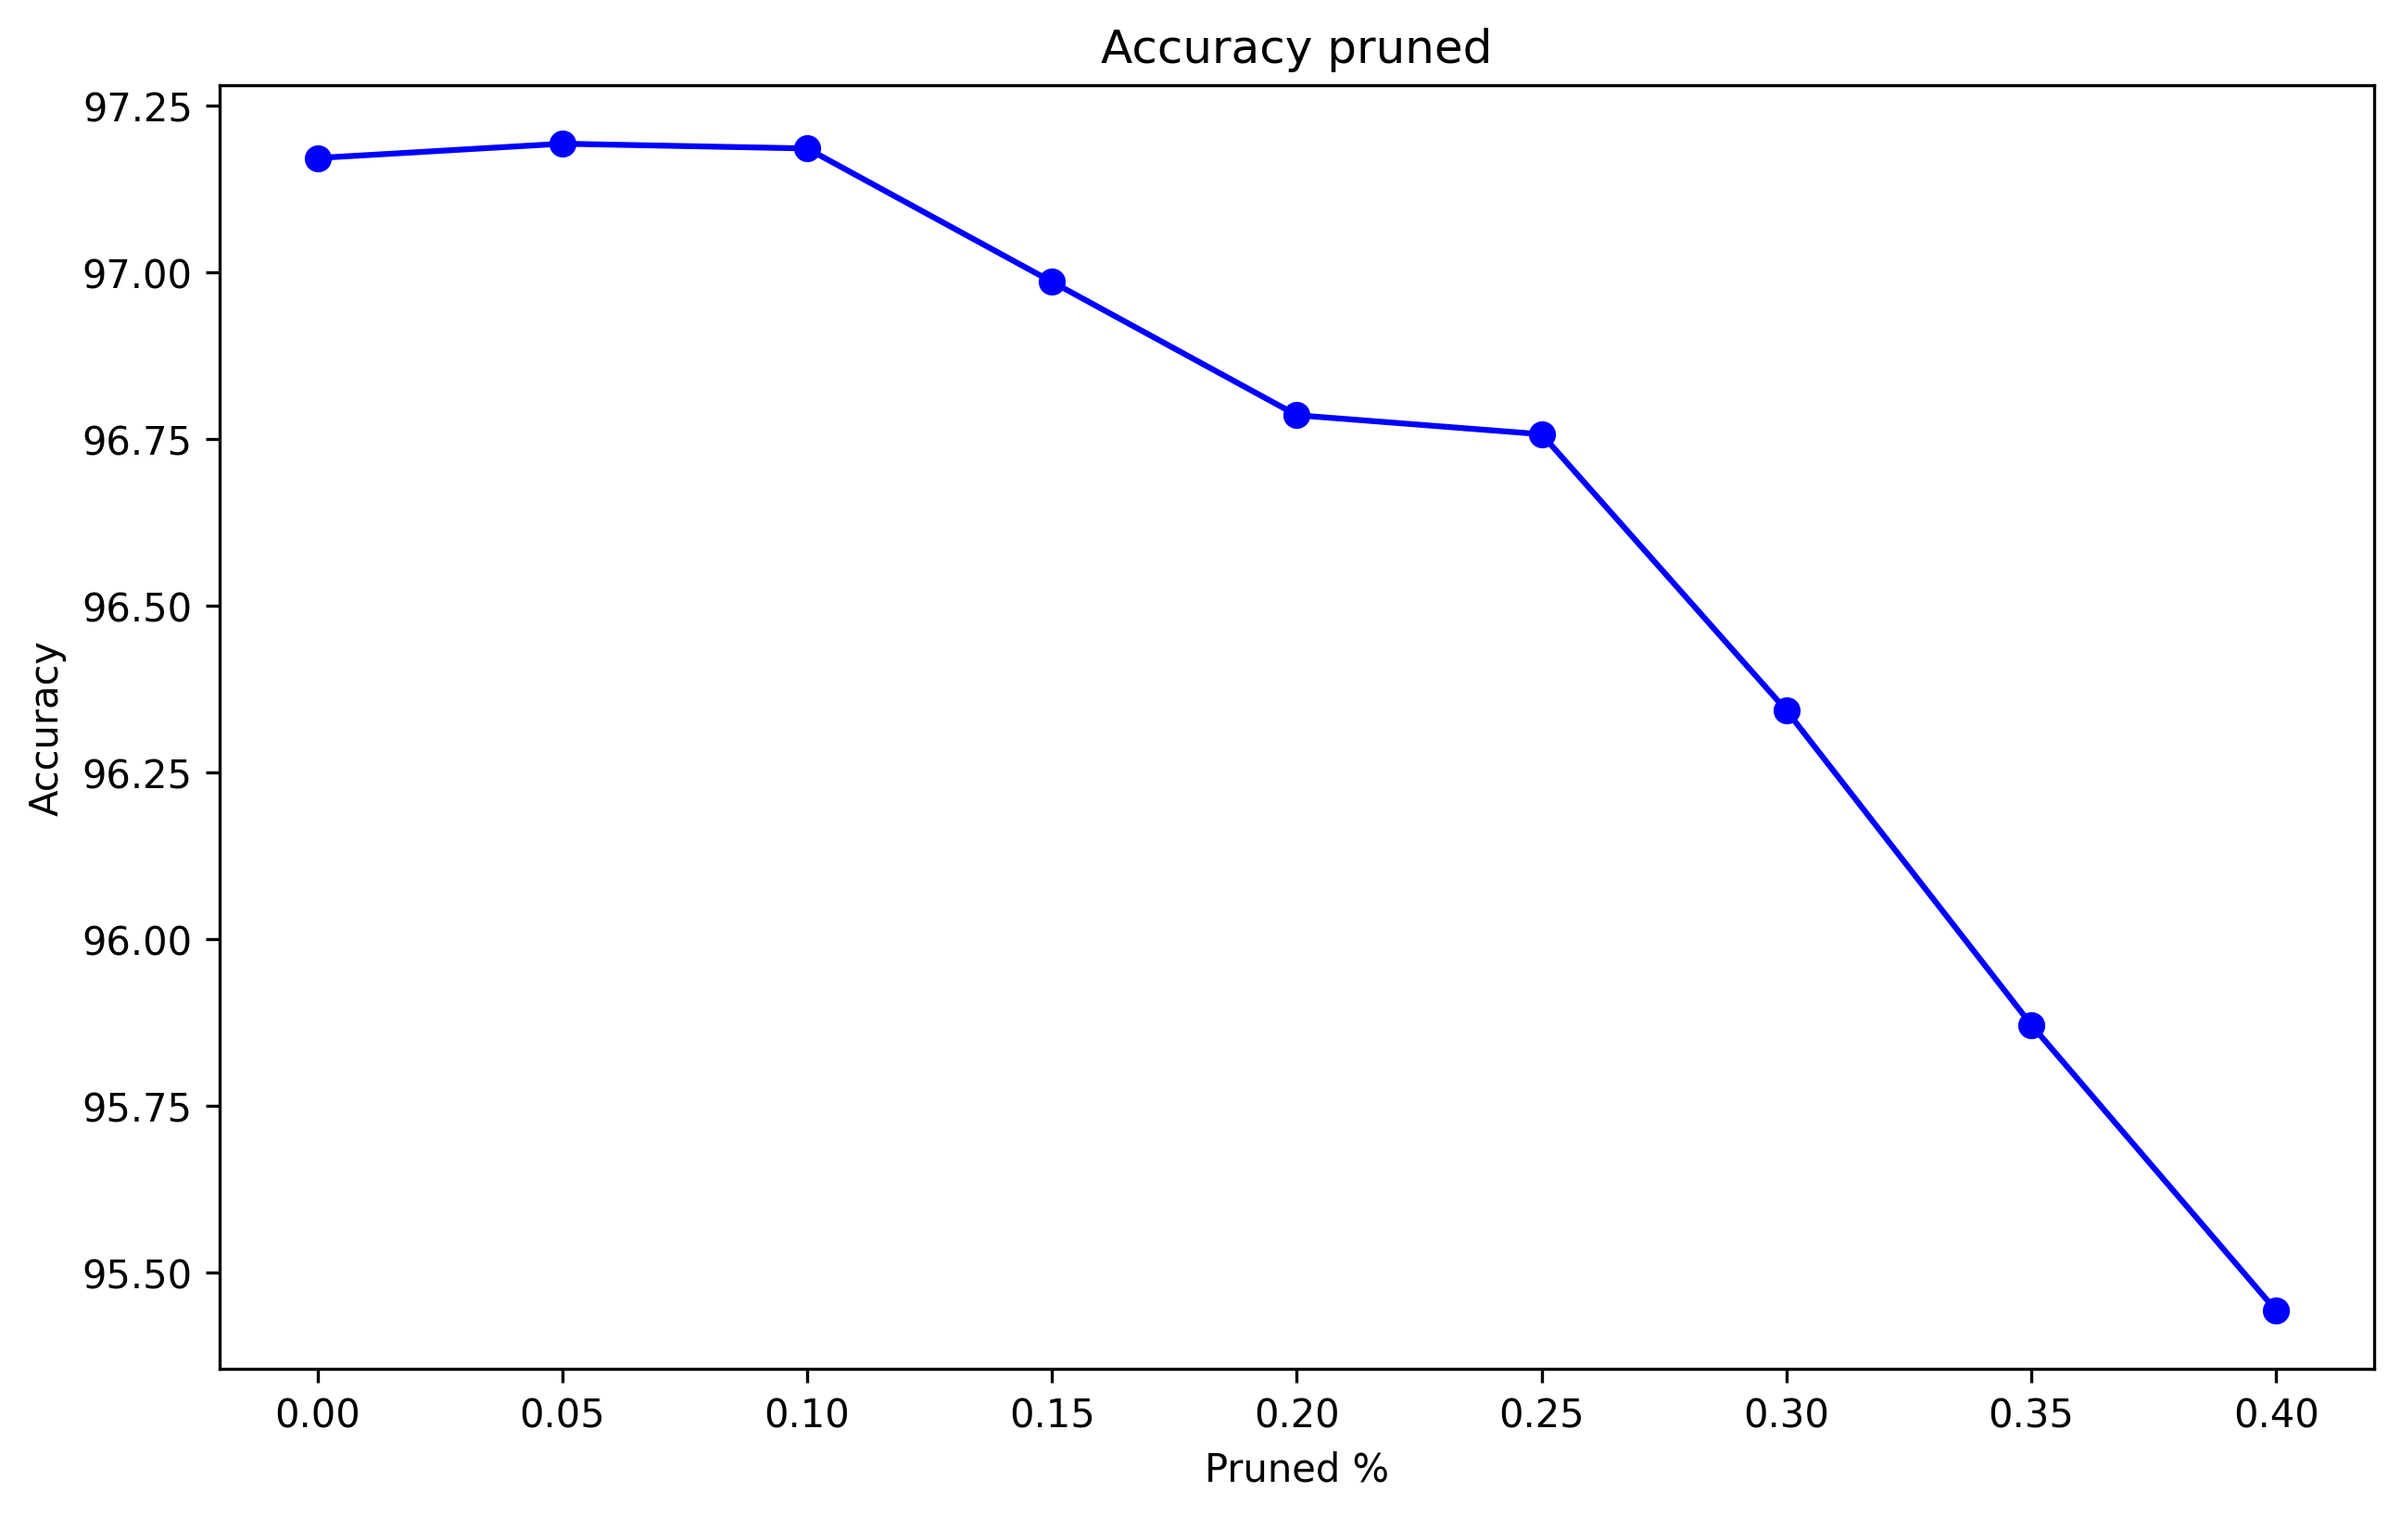
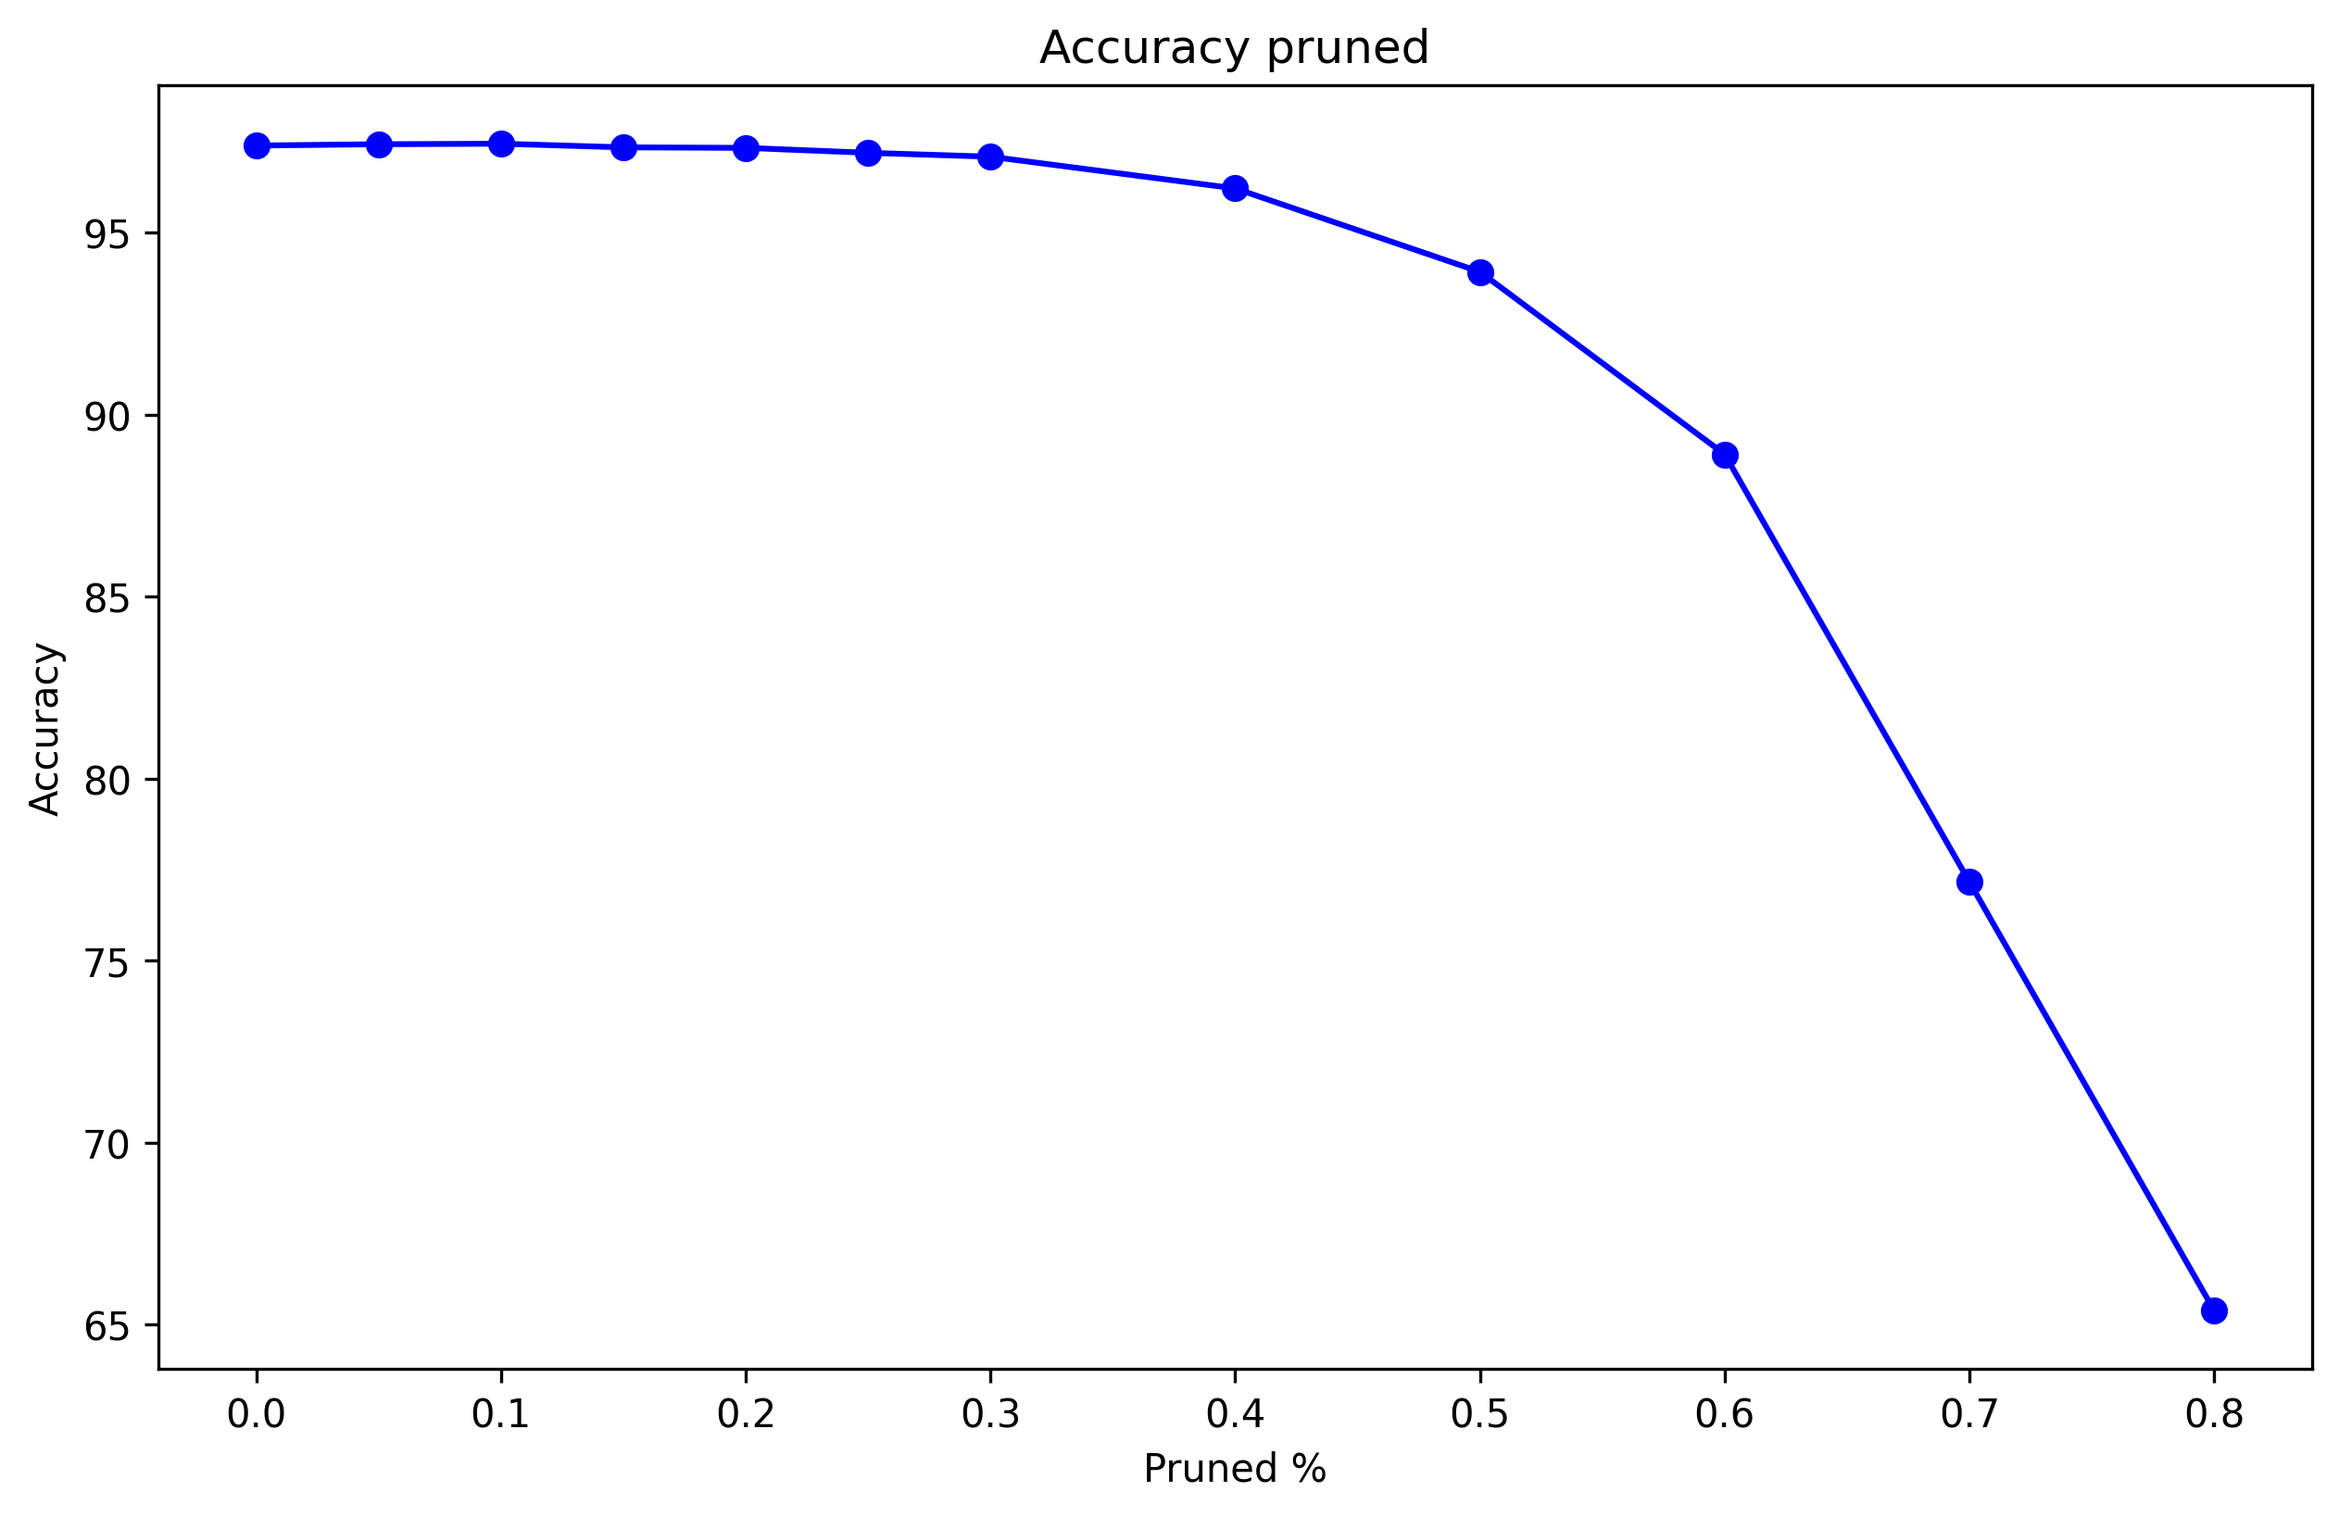
AAAAAAHAHHAHHAAAAAAAAAAAAAAAAAA

diff --git a/testing/vib_lenet_300_100_mnist.py b/testing/vib_lenet_300_100_mnist.py
@@ -7,6 +7,7 @@ from tqdm import tqdm
 import matplotlib.pyplot as plt
 import json
 from testing_utils import get_device
+from msc.plotting import plot_x_y
 
 torch.manual_seed(42)
 device = get_device()
@@ -17,10 +18,8 @@ class MnistCsvDataset(Dataset):
     data = np.loadtxt(filepath, delimiter=',', dtype=np.float32)
     self.labels = torch.tensor(data[:, 0], dtype=torch.long)
     self.images = torch.tensor(data[:, 1:], dtype=torch.float32)
-
   def __len__(self):
     return len(self.labels)
-
   def __getitem__(self, idx: int):
     return self.images[idx].view(1, 28, 28), self.labels[idx]
 
@@ -71,20 +70,15 @@ class VIBLeNet(nn.Module):
     z = self.reparameterize(mu, std)
     return self.decoder(z), mu, std
 
-# kl-diverg?
-def loss_function(y_pred, y, mu, std, beta):
+def loss_function(y_pred, y, mu, std, beta, eps=1e-8):
   """
-  y_pred : [batch_size,10]
-  y : [batch_size,10]
-  mu : [batch_size,z_dim]
-  std: [batch_size,z_dim]
-
   CE: lower bound on I(Z;Y) (prediction)
   KL: upper bound on I(Z;X) (compression)
+  bigger beta = more compression
   """
   CE = F.cross_entropy(y_pred, y, reduction="sum")
-  KL = 0.5 * torch.sum(mu.pow(2) + std.pow(2) - 2*std.log() - 1)
-  return (beta*KL + CE) / y.size(0)
+  KL = 0.5 * torch.sum(mu.pow(2) + std.pow(2) - 2 * (std + eps).log() - 1)
+  return (CE + beta*KL) / y.size(0), KL, CE
 
 def train_epoch(model, dataloader, optimizer, device, beta: float):
   model.train()
@@ -98,7 +92,7 @@ def train_epoch(model, dataloader, optimizer, device, beta: float):
     optimizer.zero_grad()
 
     log_probs, mu, std = model(X)
-    loss = loss_function(log_probs, Y, mu, std, beta)
+    loss, KL, CE = loss_function(log_probs, Y, mu, std, beta)
     loss.backward()
     optimizer.step()
 
@@ -124,12 +118,14 @@ def evaluate(model, dataloader, device, beta: float):
   running_loss = 0.0
   correct = 0
   total = 0
+  running_KL = 0.0
+  running_CE = 0.0
 
   with torch.no_grad():
     for images, labels in dataloader:
       images, labels = images.to(device), labels.to(device)
       log_probs, mu, std = model(images)
-      loss = loss_function(log_probs, labels, mu, std, beta)
+      loss, KL, CE = loss_function(log_probs, labels, mu, std, beta)
 
       bs = images.size(0)
       running_loss += loss.item() * bs
@@ -137,39 +133,55 @@ def evaluate(model, dataloader, device, beta: float):
       _, preds = torch.max(log_probs, 1)
       correct += (preds == labels).sum().item()
       total += bs
+      running_KL += KL
+      running_CE += CE
 
   avg_loss = running_loss / total
   accuracy = 100.0 * correct / total
-  return avg_loss, accuracy
+  average_KL = running_KL / total
+  average_CE = running_CE / total
+  return avg_loss, accuracy, average_KL, average_CE
 
 def train_model(
     model,
     train_loader: DataLoader,
     test_loader: DataLoader,
     optimizer,
+    scheduler,
     device,
     epochs: int,
-    beta: float=1.0
+    beta_func
 ):
   model.to(device)
-
+  test_stats = []
   for epoch in range(epochs):
-    print(f"epoch [{epoch+1}/{epochs}]")
+    print(f"epoch [{epoch+1}/{epochs}], beta: {beta_func(epoch):.3f}")
 
-    train_loss, train_acc = train_epoch(model, train_loader, optimizer, device, beta=beta)
-
-    test_loss, test_acc = evaluate(model, test_loader, device, beta=beta)
+    train_loss, train_acc = train_epoch(model, train_loader, optimizer, device, beta_func(epoch))
+    test_loss, test_acc, avg_KL, avg_CE = evaluate(model, test_loader, device, beta_func(epoch))
 
     print(f"train loss: {train_loss:.4f} | train acc: {train_acc:.2f}%")
     print(f"test  loss: {test_loss:.4f} | test  acc: {test_acc:.2f}%\n")
 
-betas = [0.3, 0.25, 0.2, 0.15, 0.1, 0.05, 0.01]
-#beta = 1e-2 # bigger: more compression
+    test_stats.append((epoch, beta_func(epoch), test_loss, test_acc))
+
+    scheduler.step()
+  return test_stats
+
+z_dim = 10
+base_beta = 1e-4
+max_beta   = 2e-1
+batch_size = 256
 train_test_split = 0.8
-batch_size = 64
-z_dim = 30
-learning_rate = 1e-4
-epochs = 25
+learning_rate = 1e-3
+weight_decay=1e-5
+warmup_epochs = 18
+epochs = 60
+
+def get_current_beta(epoch):
+  if epoch < warmup_epochs:
+    return base_beta + (max_beta - base_beta) * (epoch / warmup_epochs)
+  else: return max_beta
 
 if __name__ == "__main__":
   dataset = MnistCsvDataset("../data/mnist_data.csv")
@@ -182,27 +194,30 @@ if __name__ == "__main__":
   train_loader = DataLoader(train_dataset, batch_size, shuffle=True)
   test_loader = DataLoader(test_dataset, batch_size, shuffle=True)
 
-  acc_list = []
+  model = VIBLeNet(z_dim=z_dim)
+  optimizer = torch.optim.AdamW(model.parameters(), lr=learning_rate, weight_decay=weight_decay)
+  scheduler = torch.optim.lr_scheduler.CosineAnnealingLR(optimizer, T_max=epochs)
 
-  for b in betas:
-    model = VIBLeNet(z_dim=z_dim)
-    optimizer = torch.optim.Adam(model.parameters(), lr=learning_rate)
+  test_stats = train_model(
+      model,
+      train_loader,
+      test_loader,
+      optimizer,
+      scheduler,
+      device,
+      epochs,
+      get_current_beta
+  )
 
-    train_model(model, train_loader, test_loader, optimizer, device, epochs, beta=b)
-    avg_loss, acc = evaluate(model, test_loader, device, b)
-    acc_list.append(acc)
-    torch.save(model.state_dict(), f"../weights/vib_lenet_300_100_mnist_{b}.pth")
+  torch.save(model.state_dict(), f"../weights/vib_lenet_300_100_mnist.pth")
 
-  print(acc_list)
+  for (epoch, beta, tloss, tacc) in test_stats:
+    print(f'epoch {epoch}: beta {beta:.3f}, loss {tloss:.3f}, acc {tacc:.3f}')
 
-  plt.figure(figsize=(10, 6))
-  plt.plot(betas, acc_list, marker='o', linestyle='-', color='b')
-  plt.xscale('log')
+  #avg_loss, acc = evaluate(model, test_loader, device, max_beta)
 
-  plt.title('Accuracy vs beta (larger beta = higher compression)')
-  plt.xlabel('Beta'); plt.ylabel('Accuracy')
-  plt.savefig("../plots/vib_lenet_300_100_mnist_beta_vs_acc.png", dpi=300, bbox_inches='tight')
-  plt.close()
+  #fig, ax = plot_x_y(betas, acc_list, None, 'β', 'acc', 'accuracy', None, False, True)
+  #fig.savefig('../plots/vib_lenet_300_100_mnist_beta_vs_acc.png', dpi=300, bbox_inches='tight')
 
-  with open('../weights/accuracy_data.json', 'w') as json_file:
-    json.dump({"betas": betas, "acc_list": acc_list}, json_file, indent=2)
+  #with open('../weights/accuracy_data.json', 'w') as json_file:
+  #  json.dump({'betas': betas, 'acc_list': acc_list}, json_file, indent=2)

diff --git a/testing/lenet_300_100_mnist.py b/testing/lenet_300_100_mnist.py
@@ -38,9 +38,6 @@ class LeNet(nn.Module):
     x = F.relu(self.fc1(x))
     x = F.relu(self.fc2(x))
     x = self.fc3(x) # (32,10)
-    #print(f"softmax: {F.softmax(x)}")
-    #print(f"log softmax: {F.log_softmax(x)}")
-    #exit(1)
     x = F.log_softmax(x, dim=1)
     return x
 
@@ -95,7 +92,7 @@ def evaluate(model, dataloader, criterion, device):
   accuracy = 100.0 * correct / total
   return avg_loss, accuracy
 
-def train_model(model, train_loader, test_loader: DataLoader, criterion, optimizer, device, epochs: int=5):
+def train_model(model, train_loader, test_loader: DataLoader, criterion, optimizer, device, epochs):
   model.to(device)
 
   for epoch in range(epochs):
@@ -115,26 +112,27 @@ if __name__ == "__main__":
 
   train_dataset, test_dataset = random_split(dataset, [train_size, test_size])
 
-  train_loader = DataLoader(train_dataset, batch_size=32, shuffle=True)
+  train_loader = DataLoader(train_dataset, batch_size=256, shuffle=True)
   test_loader = DataLoader(test_dataset, batch_size=32, shuffle=True)
 
   model = LeNet()
+  epochs = 25
   learning_rate = 1e-4
   criterion = nn.NLLLoss()
   optimizer = torch.optim.Adam(model.parameters(), lr=learning_rate)
 
-  train_model(model, train_loader, test_loader, criterion, optimizer, device)
+  train_model(model, train_loader, test_loader, criterion, optimizer, device, epochs)
 
   torch.save(model.state_dict(), "../weights/lenet_300_100_mnist.pth")
 
   original_model = copy.deepcopy(model)
 
-  prune_ps = [0.0, 0.05, 0.1, 0.15, 0.20, 0.25, 0.3, 0.35, 0.40]
+  prune_ps = [0.0, 0.05, 0.1, 0.15, 0.20, 0.25, 0.3, 0.40, 0.5, 0.6, 0.7, 0.8]
 
   weight_layers = [
       ("fc1", "weight"),
       ("fc2", "weight"),
-      ("fc3", "weight"),
+      #("fc3", "weight"),
   ]
 
   acc_list = []

diff --git a/testing/msc/plotting.py b/testing/msc/plotting.py
@@ -1,0 +1,39 @@
+from typing import List, Optional
+import matplotlib.pyplot as plt
+
+def plot_x_y(
+    xs: List,
+    ys1: List,
+    ys2: Optional[List],
+    xlabel: str,
+    ylabel: str,
+    line_1_label: str,
+    line_2_label: Optional[str],
+    xlog: bool,
+    point_labels: bool,
+):
+  fig, ax = plt.subplots(figsize=(10, 6))
+
+  ax.plot(xs, ys1, marker='o', linestyle='-', color='b', label=line_1_label)
+  if ys2 and line_2_label:
+    ax.plot(xs, ys2, marker='x', linestyle='--', color='r', label=line_2_label)
+
+  if xlog:
+    ax.set_xscale('log')
+
+  ax.set_title(f'{ylabel} vs {xlabel}')
+  ax.set_xlabel(xlabel)
+  ax.set_ylabel(ylabel)
+
+  if point_labels:
+    for x, y in zip(xs, ys1):
+      ax.text(x, y, f"({x:.4f}, {y:.2f})", fontsize=8,
+              verticalalignment='bottom', horizontalalignment='right')
+
+    if ys2:
+      for x, y in zip(xs, ys2):
+        ax.text(x, y, f"({x:.4f}, {y:.2f})", fontsize=8,
+                verticalalignment='top', horizontalalignment='left')
+
+  ax.legend()
+  return fig, ax

diff --git a/testing/inspect_weights.py b/testing/inspect_weights.py
@@ -11,13 +11,6 @@ def load_weights(filepath, verbose=True):
   return weights
 
 if __name__ == "__main__":
-  torch.set_printoptions(profile="full")
-
-  weights = load_weights("../weights/lenet_300_100_mnist.pth")
+  #torch.set_printoptions(profile="full")
+  weights = load_weights("../weights/vib_lenet_300_100_mnist.pth")
   #print(weights)
-
-  #fc_mu_weights = weights["fc_mu.weight"]
-  #fc_std_weights = weights["fc_std.weight"]
-
-  #print(f"fc mu weights: {fc_mu_weights}")
-  #print(f"fc std weights: {fc_std_weights}")
